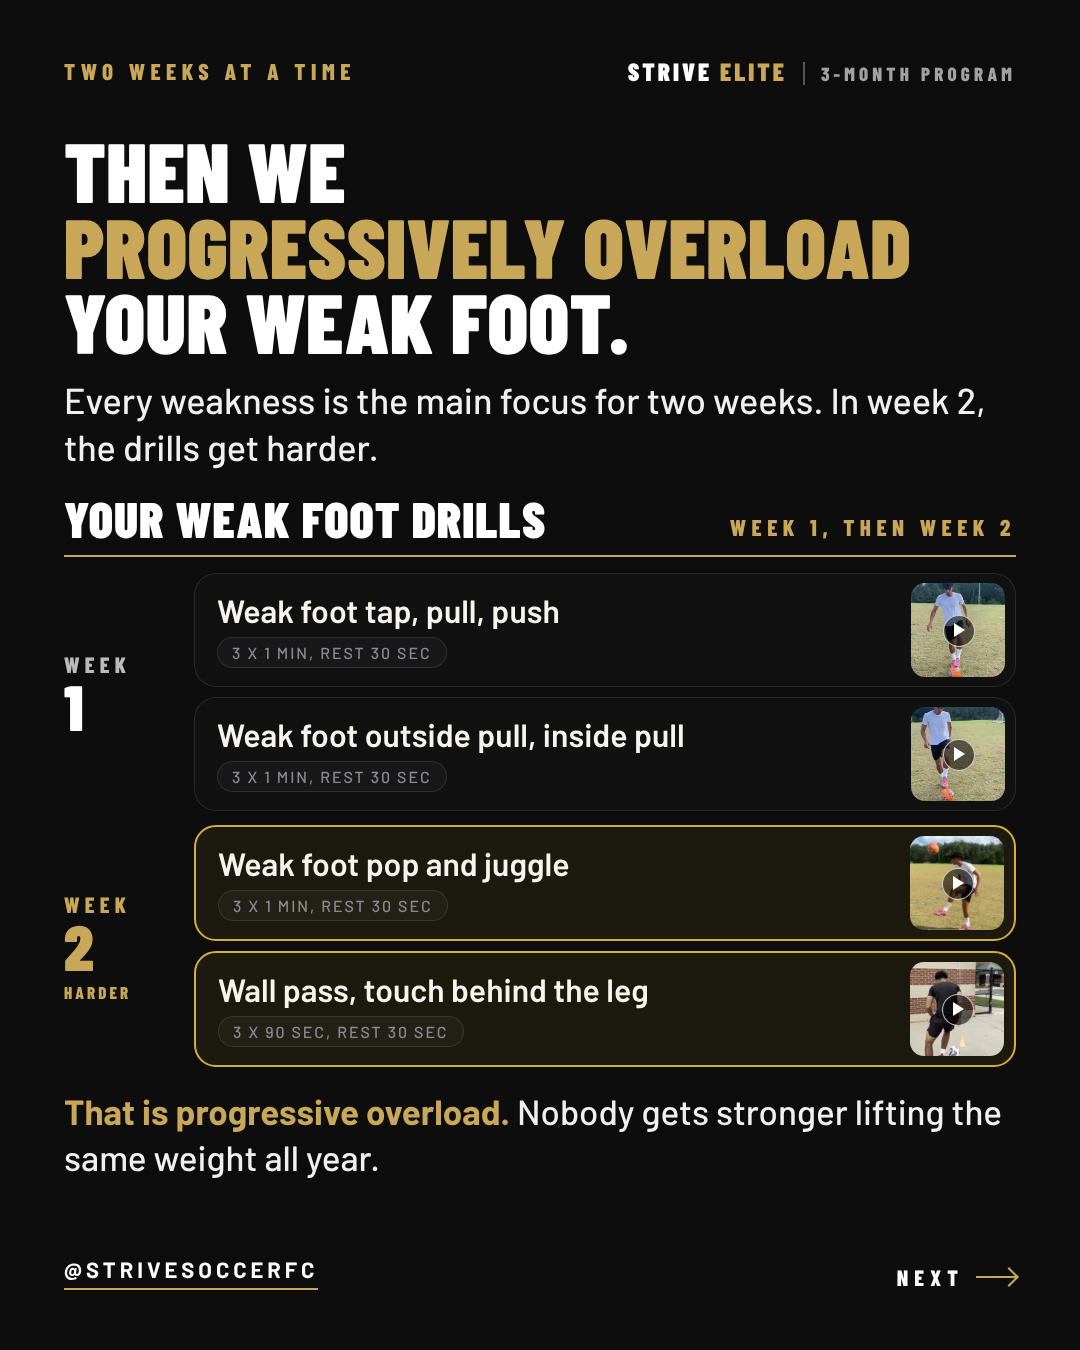
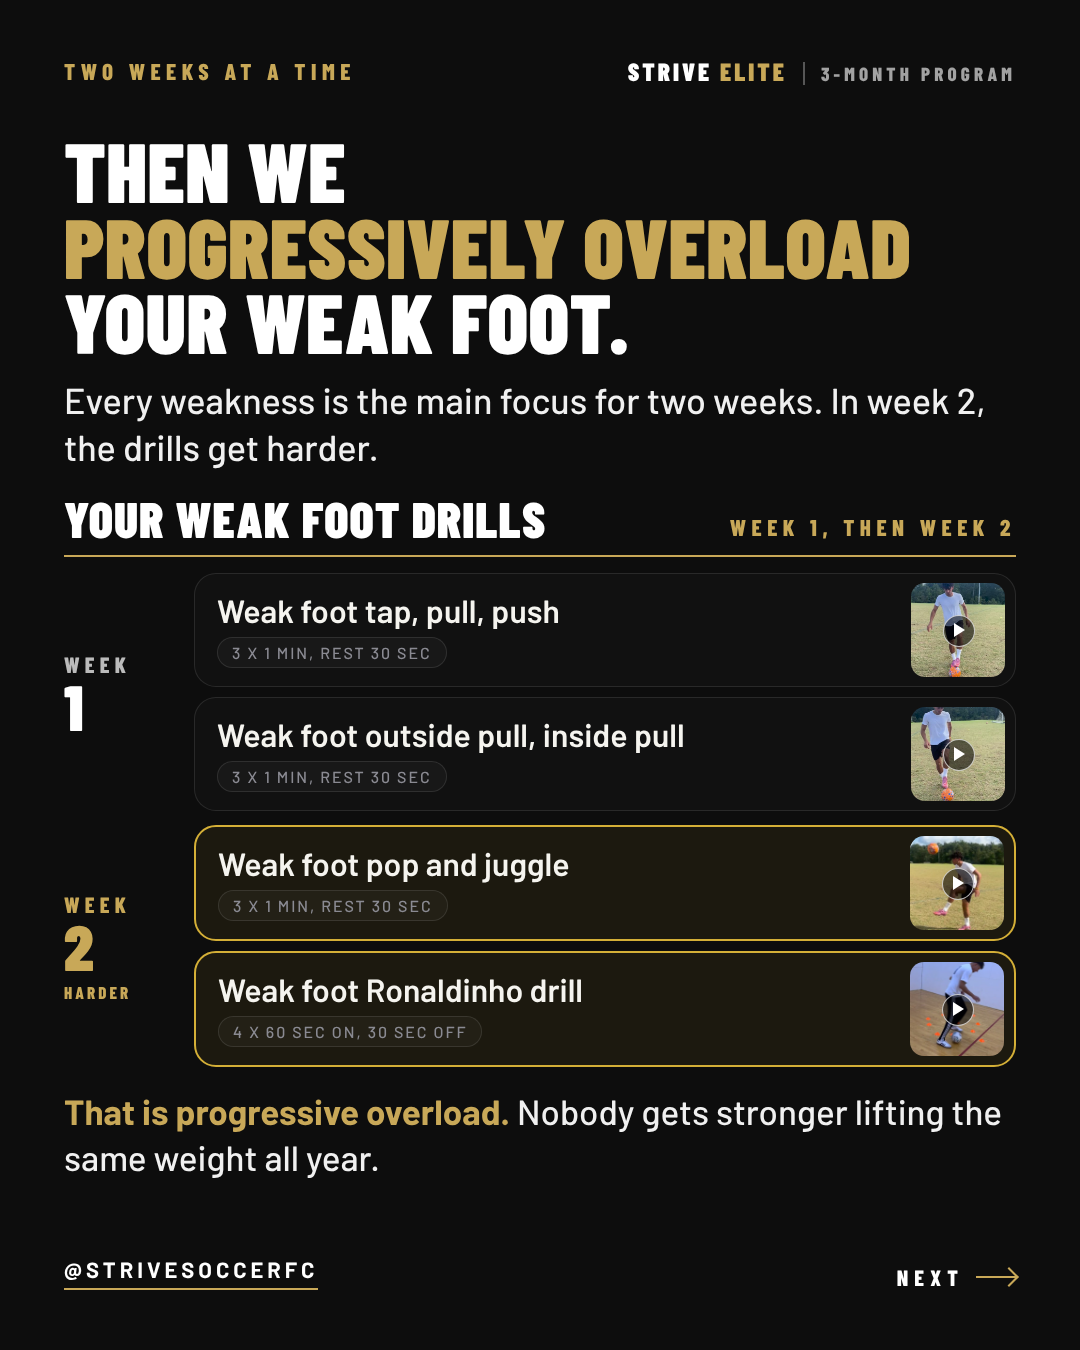
Compact carousel: Ronaldinho drill picture on slide 4, drill stills added
Claude-Session: https://claude.ai/code/session_011JsCTTjCbUkHbTuWTKQSXJ

Changed region(s): [[0.2139, 0.7156, 0.6111, 0.7778], [0.825, 0.7156, 0.9472, 0.8089]]

diff --git a/CLAUDE.md b/CLAUDE.md
@@ -4050,6 +4050,7 @@ commit.
       THEN Nov 12 2026 (Coach Yinka: "What do you mean the same week again, add another slide showing the visual of the weak foot drills going over how we break up the focuses 2 weeks at a time and use the word progressively overload"): "then the same week again" was my wording and it is GONE. The compact cut is EIGHT slides (files renumbered: 05-story, 06-six, 07-every-week, 08-close). SLIDE 3 is back to one idea: the rebuilt week, "Two weak foot drills every session. That is enough work to change your weak foot." NEW SLIDE 4 (04-overload): "THEN WE PROGRESSIVELY OVERLOAD YOUR WEAK FOOT." / "Every weakness is the main focus for two weeks. In week 2, the drills get harder." / YOUR WEAK FOOT DRILLS, week 1, then week 2, as the app's drill cards with frames of the clips: Week 1 "Weak foot tap, pull, push" and "Weak foot outside pull, inside pull"; Week 2, harder, lit, "Weak foot pop and juggle" and "Wall pass, touch behind the leg" (bank titles and reps; the wall drill means a player with a wall) / "That is progressive overload. Nobody gets stronger lifting the same weight all year." FLAG: which two drills are week 1 and which two are week 2 is my pick from the bank, his to change. Slides 3 and 4 sent, not posted.
       THEN Nov 12 2026 (Coach Yinka, with a screenshot of the six-weaknesses slide: "Take speed off this slide bc it's on the next and make this slide more simple to understand, replace it with finishing"): compact cut SLIDE 6 REBUILT. Weeks 11 and 12 are FINISHING (Speed is off this slide; it is on the next one). SIMPLER: the long paragraph and the tall white "your other weaknesses" block are gone. It now reads: the objection, "GOOD. THREE MONTHS. SIX WEAKNESSES.", "Each weakness is the main focus for two weeks. Then your next weakness takes over.", the 12 WEEKS graphic as three rows of two gold blocks (Month 1 Weak foot, First touch; Month 2 Passing, Ball mastery; Month 3 1v1 skills, Finishing), and one closing line, "The rest of every session keeps your other weaknesses improving, so nothing slips back." FLAG, his call: THE APP CANNOT BUILD A FINISHING FOCUS TODAY. Shooting and finishing were left out of the program on his word Nov 11 and the bank holds zero shooting or finishing drills, so a member who asks for those two weeks cannot be given them until the clips are filmed and banked; same standing as Scoring Goals on the offer post. The twelve-slide version still shows Speed there. Sent, not posted.
       THEN Nov 12 2026 (Coach Yinka: "Imagine yourself after tackling your 6 biggest weaknesses as a player. This is when your dreams become reality"): his line is the closing line of compact cut slide 6, under the 12 weeks, with "This is when your dreams become reality." in gold ("six" spelled out to match the headline). To make room, "nothing slips back" is gone and the line under the headline now carries both halves: "Each weakness is the main focus for two weeks. The rest of every session keeps your other weaknesses improving." I READ THE LINE AS MEANT FOR THIS SLIDE and said so; it also fits the close if he meant that. Sent, not posted.
+      THEN Nov 12 2026 (Coach Yinka: "Do weak foot ronaldighnondrill for yhe 4th drill on Progressive overload slide"): the fourth card on compact cut slide 4 is "Weak foot Ronaldinho drill", 4 x 60 sec on, 30 sec off (his name for it; the reps are the bank's), with a frame of its own clip; "Wall pass, touch behind the leg" is off the slide. The clip is on files.manuscdn.com, so a second session on the "strive-soccer-system" environment pulled six stills (branch claude/ronaldinho-thumb, now in marketing/program/drill-frames/ball-mastery/). FLAGS, his call, nothing changed in the bank: the bank row is titled "Ronaldinho drill", sits under Ball Mastery (program focus is not weak foot) and is SWITCHED OFF, so the app would not give it to a player in a weak foot fortnight today; switching it on, renaming it and tagging it weak foot is three taps at /coach/drills. Sent, not posted.
 
 ## Skills (use them without being asked)
 

diff --git a/marketing/program/one-thing-carousel-4/README.md b/marketing/program/one-thing-carousel-4/README.md
@@ -24,8 +24,9 @@ Same look, same approved lines, merged. Render: `node render.mjs 02-your-week.ht
    FOOT. / Every weakness is the main focus for two weeks. In week 2, the
    drills get harder. / YOUR WEAK FOOT DRILLS, week 1, then week 2: Week 1
    Weak foot tap, pull, push and Weak foot outside pull, inside pull; Week 2,
-   harder, Weak foot pop and juggle and Wall pass, touch behind the leg (bank
-   titles and reps, frames of the clips) / That is progressive overload.
+   harder, Weak foot pop and juggle and Weak foot Ronaldinho drill (his name
+   for it; the bank row is "Ronaldinho drill", 4 x 60 sec on, 30 sec off;
+   frames of the clips) / That is progressive overload.
    Nobody gets stronger lifting the same weight all year.
 5. `05-story`. IT'S HOW I CAME BACK. Five months out with a hip tear, one main
    thing at a time, the best form of my life.
